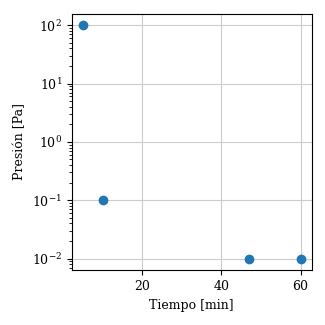
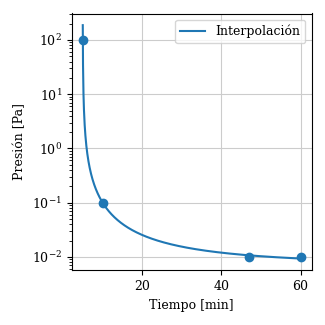
Fiteo difusora
Se logra fittear la presión de la difusora, pero no de la rotatoria.

diff --git a/plots.py b/plots.py
@@ -2,17 +2,27 @@ import matplotlib.pyplot as plt
 import numpy as np
 import pandas as pd
 from scipy.interpolate import CubicSpline
+from scipy.optimize import curve_fit
 
 name = 'datos_presion_U2.xlsx'
 DF = pd.read_excel(name, engine='openpyxl')
 
-t_difusora = DF['tiempo_difusora(min)']
+t_difusora = DF['tiempo_difusora(min)'][:4]
 t_rotatoria = DF['tiempo_rotatoria(min)']
-presion_difusora = DF['presion_difusora(Pa)']
+presion_difusora = DF['presion_difusora(Pa)'][:4]
 presion_rotatoria = DF['presion_rotatoria(mbar)']*100
 
-spline2 = CubicSpline(t_rotatoria, presion_rotatoria, bc_type='clamped')
-tiempo_plot = np.linspace(t_rotatoria[0], np.max(t_rotatoria), 1000)
+def inversa(x, a, base, b):
+    return 1/((x+a)**base) + b
+
+popt_difusora, pcov_difusora = curve_fit(inversa, t_difusora, presion_difusora,
+                                         p0=(4, 2, 0))
+popt_rotatoria, pcov_rotatoria = curve_fit(inversa, t_rotatoria, presion_rotatoria,
+                                           p0=(4, 2, 0))
+
+spline2 = CubicSpline(t_rotatoria, presion_rotatoria)
+tiempo_dif_plot = np.linspace(t_difusora[0]-5, np.max(t_difusora), 1000)
+tiempo_rot_plot = np.linspace(t_rotatoria[0], np.max(t_rotatoria), 1000)
 
 plt.rcParams['axes.grid'] = True
 plt.rcParams['grid.alpha'] = 1
@@ -21,17 +31,27 @@ plt.rcParams.update({"font.size": 9, "font.family": "serif"})
 
 fig1, ax1 = plt.subplots(figsize=(3.25, 3.25))
 ax1.scatter(t_difusora, presion_difusora, zorder=2)
+ax1.plot(tiempo_dif_plot, inversa(tiempo_dif_plot, *popt_difusora),
+         label='Interpolación')
 ax1.set_xlabel('Tiempo [min]')
 ax1.set_ylabel('Presión [Pa]')
 ax1.set_yscale('log')
+ax1.legend()
 fig1.tight_layout()    
 fig1.savefig("img/presion-difusora.png")
 
 fig2, ax2 = plt.subplots(figsize=(3.25, 3.25))
 ax2.scatter(t_rotatoria, presion_rotatoria, zorder=2)
-ax2.plot(tiempo_plot, spline2(tiempo_plot))
+#ax2.plot(tiempo_rot_plot, inversa(tiempo_rot_plot, *popt_rotatoria),
+#         label='Interpolación')
+ax2.plot(tiempo_rot_plot, spline2(tiempo_rot_plot))
 ax2.set_xlabel('Tiempo [min]')
 ax2.set_ylabel('Presión [Pa]')
-ax2.set_yscale('log')
+#ax2.set_yscale('log')
 fig2.tight_layout()    
 fig2.savefig("img/presion-rotatoria.png")
+
+fig3, ax3 = plt.subplots(figsize=(3.25, 3.25))
+ax3.plot(tiempo_rot_plot, inversa(tiempo_rot_plot, *popt_rotatoria))
+ax3.set_yscale('log')
+fig3.show()
